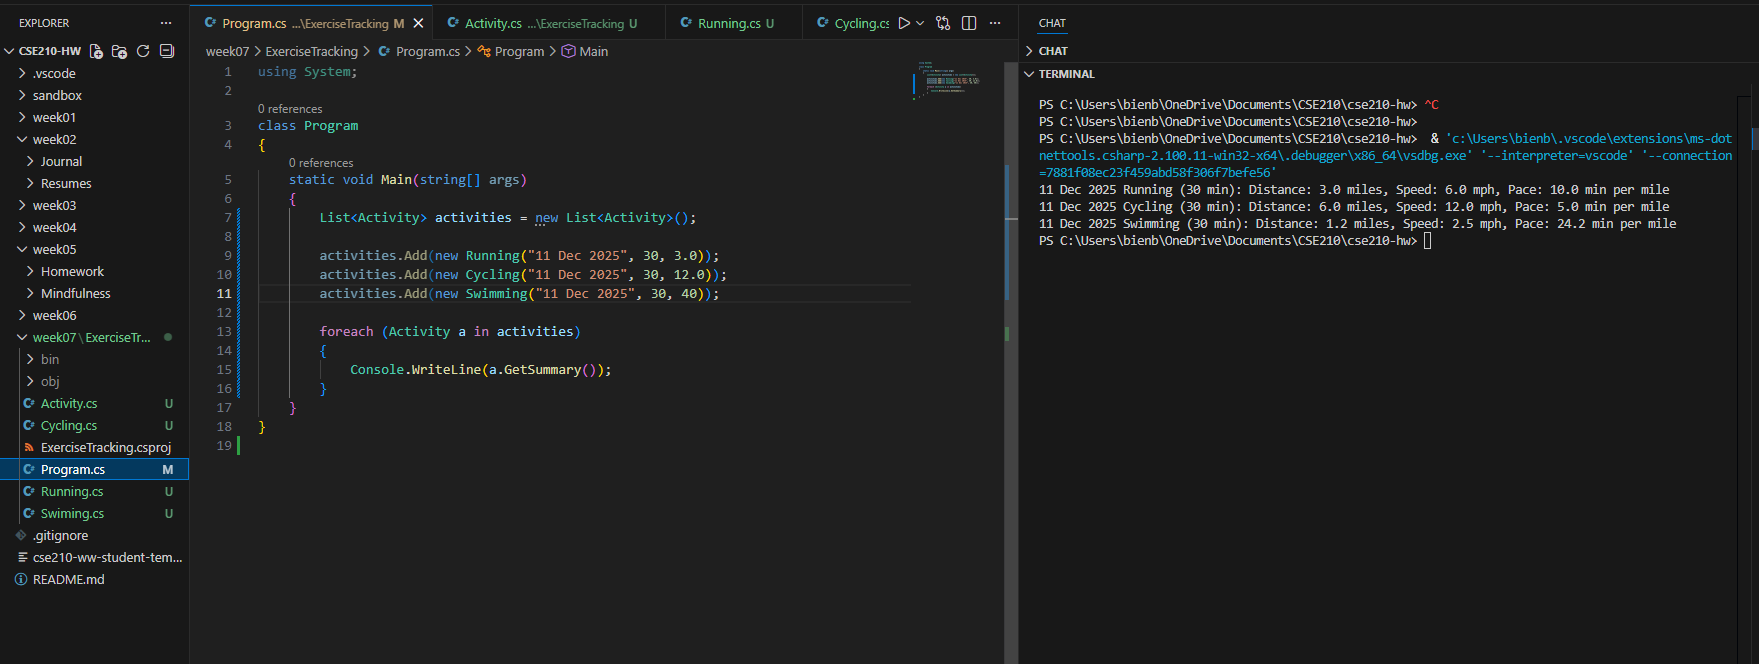
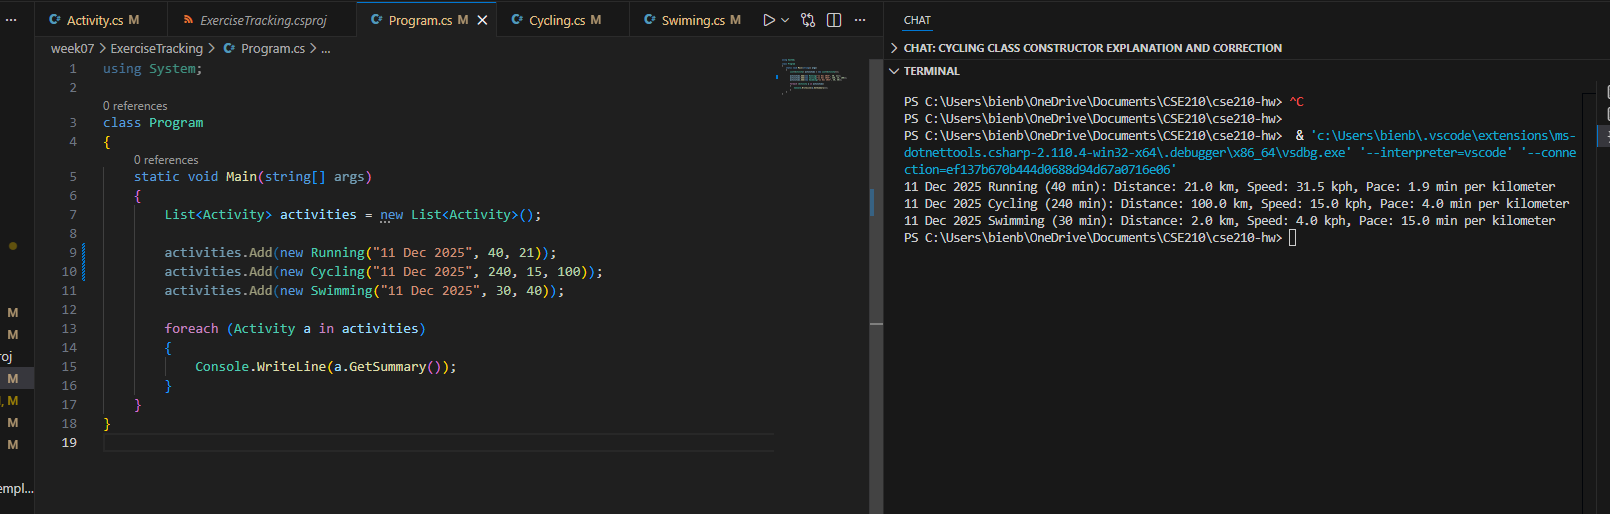
updated 11-12-2025

Changed region(s): [[0.0, 0.0, 1.0, 1.0], [0.1242, 0.1556, 0.3106, 0.2802], [0.0, 0.9339, 0.0311, 0.965]]

diff --git a/week07/ExerciseTracking/Cycling.cs b/week07/ExerciseTracking/Cycling.cs
@@ -2,20 +2,19 @@ using System;
 
 public class Cycling : Activity
 {
-    private double _speed; // mph
+    private double _speed; // in kilometers per hour
+    private double _distance; // in kilometers
 
-    public Cycling(string date, int minutes, double speed)
+    public Cycling(string date, int minutes, double speed, double distance)
         : base(date, minutes)
     {
         _speed = speed;
+        _distance = distance;
     }
 
     public override double GetSpeed() => _speed;
 
-    public override double GetDistance()
-    {
-        return (_speed * GetMinutes()) / 60;
-    }
+    public override double GetDistance() => _distance;
 
     public override double GetPace()
     {

diff --git a/week07/ExerciseTracking/Activity.cs b/week07/ExerciseTracking/Activity.cs
@@ -22,8 +22,8 @@ public abstract class Activity
     public virtual string GetSummary()
     {
         return $"{_date} {this.GetType().Name} ({_minutes} min): " +
-               $"Distance: {GetDistance():0.0} miles, " +
-               $"Speed: {GetSpeed():0.0} mph, " +
-               $"Pace: {GetPace():0.0} min per mile";
+               $"Distance: {GetDistance():0.0} km, " +
+               $"Speed: {GetSpeed():0.0} kph, " +
+               $"Pace: {GetPace():0.0} min per kilometer";
     }
 }

diff --git a/week07/ExerciseTracking/Program.cs b/week07/ExerciseTracking/Program.cs
@@ -6,8 +6,8 @@ class Program
     {
         List<Activity> activities = new List<Activity>();
 
-        activities.Add(new Running("11 Dec 2025", 30, 3.0));
-        activities.Add(new Cycling("11 Dec 2025", 30, 12.0));
+        activities.Add(new Running("11 Dec 2025", 40, 21));
+        activities.Add(new Cycling("11 Dec 2025", 240, 15, 100));
         activities.Add(new Swimming("11 Dec 2025", 30, 40));
 
         foreach (Activity a in activities)

diff --git a/week07/ExerciseTracking/Running.cs b/week07/ExerciseTracking/Running.cs
@@ -3,8 +3,9 @@ using System;
 public class Running : Activity
 {
     private double _distance; // miles
+    private int _laps;
 
-    public Running(string date, int minutes, double distance)
+    public Running(string date, int minutes, int distance)
         : base(date, minutes)
     {
         _distance = distance;

diff --git a/week07/ExerciseTracking/Swiming.cs b/week07/ExerciseTracking/Swiming.cs
@@ -12,8 +12,8 @@ public class Swimming : Activity
 
     public override double GetDistance()
     {
-        double km = _laps * 50 / 1000.0;
-        return km * 0.62;
+        double _distance = _laps * 50 / 1000.0;
+        return _distance;
     }
 
     public override double GetSpeed()
